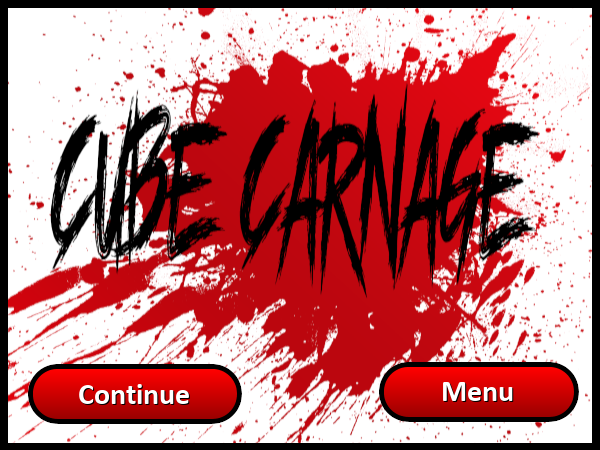
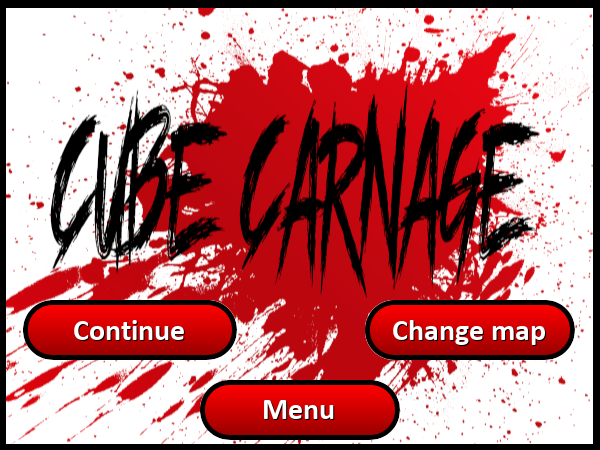
Menus mejorados

Changed region(s): [[0.0, 0.0311, 0.99, 0.9956], [0.96, 0.9644, 0.99, 0.9956]]

diff --git a/src/js/play_scene.js b/src/js/play_scene.js
@@ -68,15 +68,25 @@ var PlayScene = {
 	},
 
 	unpause: function(event) {
-		if (PlayScene.game.paused && event.y > 440 && event.y < 500) {
+		if (PlayScene.game.paused && event.y > 455 && event.y < 515) {
 			// Continue button
-			if(event.x > 130 && event.x < 340) {
+			if(event.x > 120 && event.x < 335) {
 				PlayScene.pauseMenu.destroy();
 				PlayScene.game.paused = false;
 			}
 
+			// Change map button
+			if(event.x > 465 && event.x < 675) {
+				PlayScene.player.heartbeatSound.stop();
+				PlayScene.game.state.states.play.music.stop();
+				PlayScene.game.state.start('mapsMenu', true, false);
+				PlayScene.game.paused = false;
+			}
+		}
+		
+		if (PlayScene.game.paused && event.y > 535 && event.y < 595) {
 			// Menu button
-			if(event.x > 480 && event.x < 680) {
+			if(event.x > 300 && event.x < 500) {
 				PlayScene.player.heartbeatSound.stop();
 				PlayScene.game.state.states.play.music.stop();
 				PlayScene.game.state.start('menu', true, false);
@@ -118,7 +128,7 @@ var PlayScene = {
 		// Pause menu
 		if (this.game.input.keyboard.isDown(Phaser.Keyboard.ESC)) {
 			this.game.paused = true;
-			this.pauseMenu = this.game.add.sprite(this.game.world.width/2, this.game.world.height/2, 'pauseMenu');
+			this.pauseMenu = this.game.add.sprite(this.game.world.width / 2, this.game.world.height / 2 + 40, 'pauseMenu');
 			this.pauseMenu.anchor.setTo(0.5, 0.5);
 		}
 	}, 

diff --git a/src/js/main.js b/src/js/main.js
@@ -65,6 +65,7 @@ var MenuScene = {
 		// Button sprites
 		this.game.load.spritesheet('playButton', 'images/menus/playButton.png', 260, 80);
 		this.game.load.spritesheet('backButton', 'images/menus/backButton.png', 161, 60);
+		this.game.load.spritesheet('controlsButton', 'images/menus/controlsButton.png', 181, 60);
 		this.game.load.spritesheet('map1button', 'images/menus/map1button.png', 208, 58);
 		this.game.load.spritesheet('map2button', 'images/menus/map2button.png', 208, 58);
 		this.game.load.spritesheet('map3button', 'images/menus/map3button.png', 208, 58);
@@ -114,7 +115,7 @@ var MenuScene = {
 		this.game.add.sprite(-40,570, 'logo');
 
 		this.game.add.button(530, 520, 'playButton', this.start, this, 2, 0, 1);
-		this.game.add.button(630, 610, 'backButton', this.controls, this, 2, 0, 1);
+		this.game.add.button(610, 610, 'controlsButton', this.controls, this, 2, 0, 1);
 
 		this.music = this.game.add.audio('menuMusic');
 		this.music.volume = 0.01;

diff --git a/src/index.html b/src/index.html
@@ -30,7 +30,7 @@
 			<p>by <a href="http://github.com/onaranjoUCM">Dead Kitten Games</a></p>
 			<p class="license">Published under the <a href="http://creativecommons.org/licenses/by-nc-sa/4.0/">Creative Commons Attribution-NonCommercial-ShareAlike</a>
 				license.</p>
-			<h2>Controles</h2>
+			<h2>Controls</h2>
 			<p>
 				<strong>Move: </strong> WASD or ARROW KEYS<br>
 				<strong>Shoot: </strong> SPACEBAR<br>
